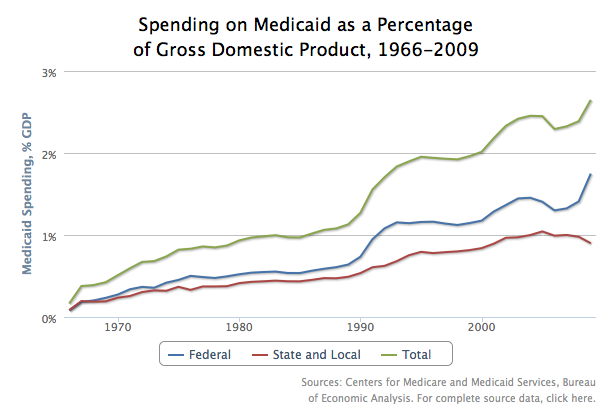
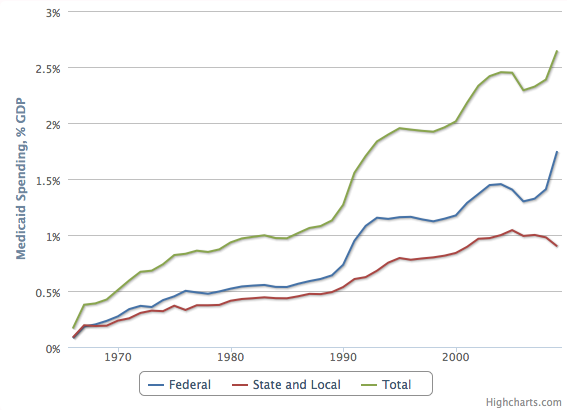
use static chart image without title; fixes formatting problem on chart page

diff --git a/web/chart/static/html/suderman/AMP_dynamic.js b/web/chart/static/html/suderman/AMP_dynamic.js
@@ -24,9 +24,10 @@ function supportsSVG() {
 // fall back to a static image.
 
       if (supportsSVG() || supportsVml()) {
-        document.write('<div id="chartdiv" style="margin:0px auto; max-width:600px; padding:8px; background-color:#ffffff; border:1px solid #aaaaaa "> </div>');      
+	  document.write('<div id="chartdiv" style="margin:0px auto; max-width:600px; padding:8px; background-color:#ffffff; border:1px solid #aaaaaa "> </div>');      
       } else {
-        document.write('<a href="/chart/medicaid_vs_gdp"><img src="/static/images/medicaid.png" alt="Chart: Spending on Medicaid as a Percentage of Gross Domestic Product, 1966-2009"/></a>')
+	  document.write('<h2><p align="center">Spending on Medicaid as a Percentage of Gross Domestic Product, 1966-2009</p></h2>');
+	  document.write('<a href="/chart/medicaid_vs_gdp"><img src="/static/images/medicaid.png" alt="Chart: Spending on Medicaid as a Percentage of Gross Domestic Product, 1966-2009"/></a>');
       }
 
 

diff --git a/web/chart/static/html/suderman/AMP_dynamic.html b/web/chart/static/html/suderman/AMP_dynamic.html
@@ -383,6 +383,7 @@ GA_googleAddSlot('ca-pub-4864286300355536', 'header2');
   <script type="text/javascript" src="AMP_dynamic.js"></script>
 
     <noscript>
+      <h2><p align="center">Spending on Medicaid as a Percentage of Gross Domestic Product, 1966-2009</p></h2>
       <a href="/chart/medicaid_vs_gdp"><img src="/static/images/medicaid.png" alt="Chart: Spending on Medicaid as a Percentage of Gross Domestic Product, 1966-2009"/></a>
     </noscript>
 
